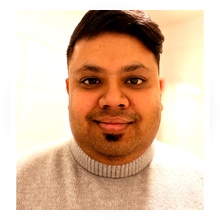
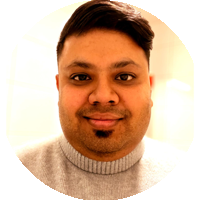
Changed HTML + CSS and also changed profile picture

diff --git a/_layouts/default.html b/_layouts/default.html
@@ -1,38 +1,29 @@
----
----
-
-<!doctype html>
-{% include copyright.html %}
-<html lang="{{ site.locale | replace: "_", "-" | default: "en" }}" class="no-js">
-  <head>
-    {% include head.html %}
-    {% include head/custom.html %}
-    <link rel="stylesheet" href="{{ '/assets/css/style.css' | relative_url }}">
-    <img src="{{ '/assets/img/img.png' | relative_url }}" alt="Arnab Dey" class="profile-img">
-  </head>
-
-  <body class="layout--{{ page.layout | default: layout.layout }}{% if page.classes or layout.classes %}{{ page.classes | default: layout.classes | join: ' ' | prepend: ' ' }}{% endif %}" dir="{% if site.rtl %}rtl{% else %}ltr{% endif %}">
-    {% include skip-links.html %}
-    {% include masthead.html %}
-
-    <div class="initial-content">
-      {{ content }}
-      {% include after-content.html %}
-    </div>
-
-    {% if site.search == true %}
-      <div class="search-content">
-        {% include search/search_form.html %}
-      </div>
-    {% endif %}
-
-    <div id="footer" class="page__footer">
-      <footer>
-        {% include footer/custom.html %}
-        {% include footer.html %}
-      </footer>
-    </div>
-
-    {% include scripts.html %}
-  </body>
+<!DOCTYPE html>
+<html lang="en">
+<head>
+    <meta charset="UTF-8">
+    <meta name="viewport" content="width=device-width, initial-scale=1.0">
+    <title>My Portfolio</title>
+    <link rel="stylesheet" href="styles.css">
+    <script src="https://kit.fontawesome.com/19a52b3bff.js" crossorigin="anonymous"></script>
+</head>
+<body>
+    <header>
+        <div class="profile">
+            <img src="img.png" alt="Profile Picture" class="profile-pic">
+            <h1>Your Name</h1>
+            <p>Your Profession / Tagline</p>
+            <div class="social-icons">
+                <a href="#"><i class="fab fa-github"></i></a>
+                <a href="#"><i class="fab fa-linkedin"></i></a>
+                <a href="#"><i class="fab fa-twitter"></i></a>
+            </div>
+        </div>
+    </header>
+    <main>
+        <section class="content">
+            {{ content }}
+        </section>
+    </main>
+</body>
 </html>

diff --git a/assets/css/style.css b/assets/css/style.css
@@ -1,76 +1,49 @@
-/* Global Styles */
 body {
-    font-family: 'Inter', sans-serif;
-    font-size: 18px;
-    line-height: 1.6;
+    font-family: Arial, sans-serif;
     background-color: #121212;
-    color: #ffffff;
+    color: #ddd;
+    text-align: justify;
     margin: 0;
     padding: 0;
 }
 
-/* Container */
-.container {
-    max-width: 800px;
-    margin: 50px auto;
-    padding: 20px;
-    background: #1e1e1e;
-    box-shadow: 0 2px 10px rgba(0, 0, 0, 0.5);
-    border-radius: 8px;
-}
-
-/* Header */
 header {
-    text-align: center;
-    margin-bottom: 20px;
+    display: flex;
+    align-items: center;
+    padding: 20px;
+    background-color: #1e1e1e;
 }
 
-/* Profile Image */
-.profile-img {
+.profile {
+    text-align: left;
+    padding: 10px;
+}
+
+.profile-pic {
     width: 200px;
     height: 200px;
-    object-fit: cover;
-    border: 3px solid #00bcd4;
-    display: block;
-    margin: 0 auto 15px;
-    box-shadow: 0 4px 10px rgba(0, 188, 212, 0.4);
+    border-radius: 50%;
+    box-shadow: 0 4px 8px rgba(255, 255, 255, 0.2);
 }
 
-/* Headings */
-h1, h2, h3 {
-    text-align: center;
+h1 {
+    font-size: 24px;
     font-weight: bold;
-    margin-bottom: 10px;
+    margin: 10px 0 5px;
 }
 
-/* Navigation */
-nav {
-    text-align: center;
-    margin-bottom: 20px;
+p {
+    font-size: 16px;
+    color: #bbb;
 }
 
-nav a {
+.social-icons a {
+    color: #bbb;
+    font-size: 20px;
+    margin-right: 10px;
     text-decoration: none;
-    color: #00bcd4;
-    margin: 0 15px;
-    font-weight: 500;
 }
 
-nav a:hover {
-    text-decoration: underline;
-}
-
-/* Content */
-main {
-    padding: 20px;
-}
-
-/* Footer */
-footer {
-    text-align: center;
-    font-size: 14px;
-    color: #ccc;
-    background: #191919;
-    padding: 10px;
-    margin-top: 30px;
+.social-icons a:hover {
+    color: #ffffff;
 }
